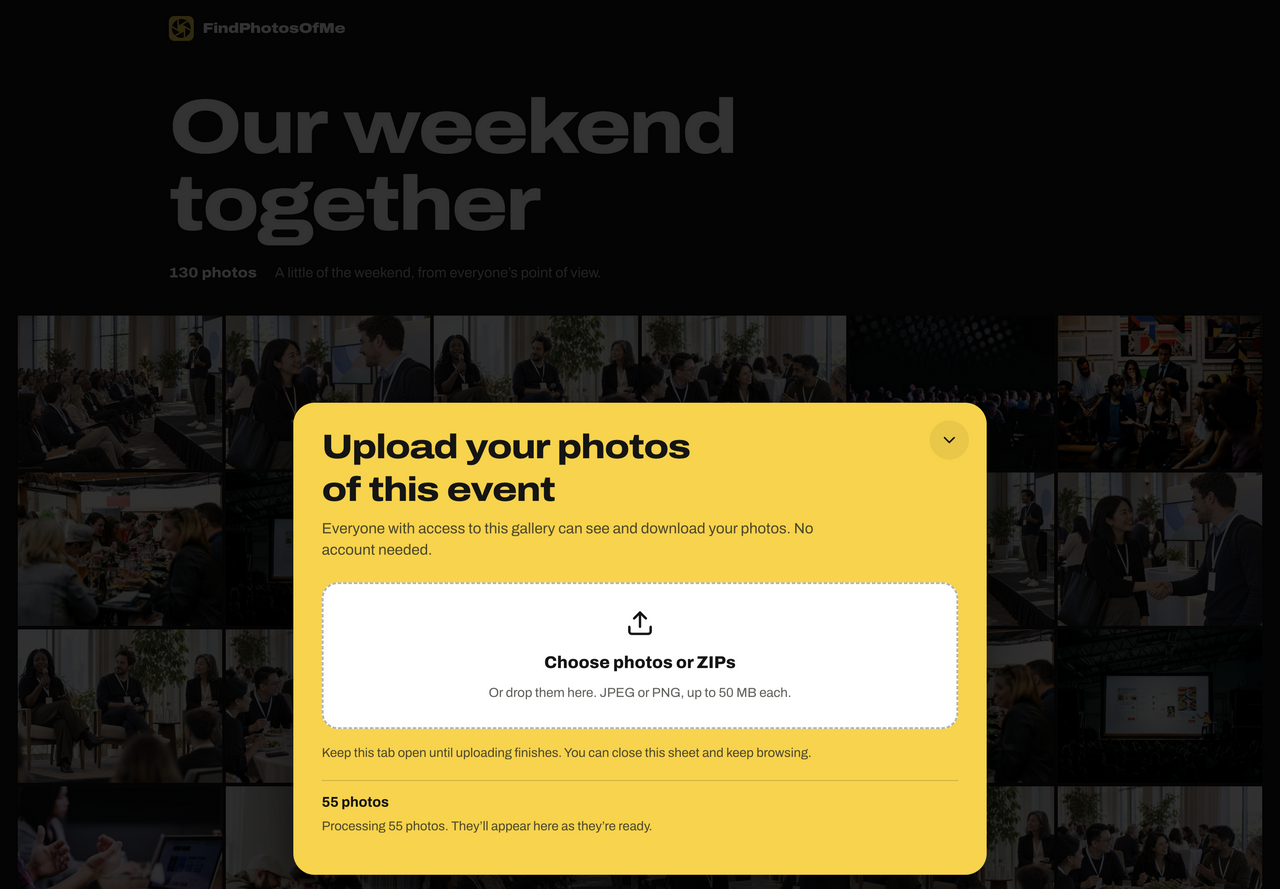
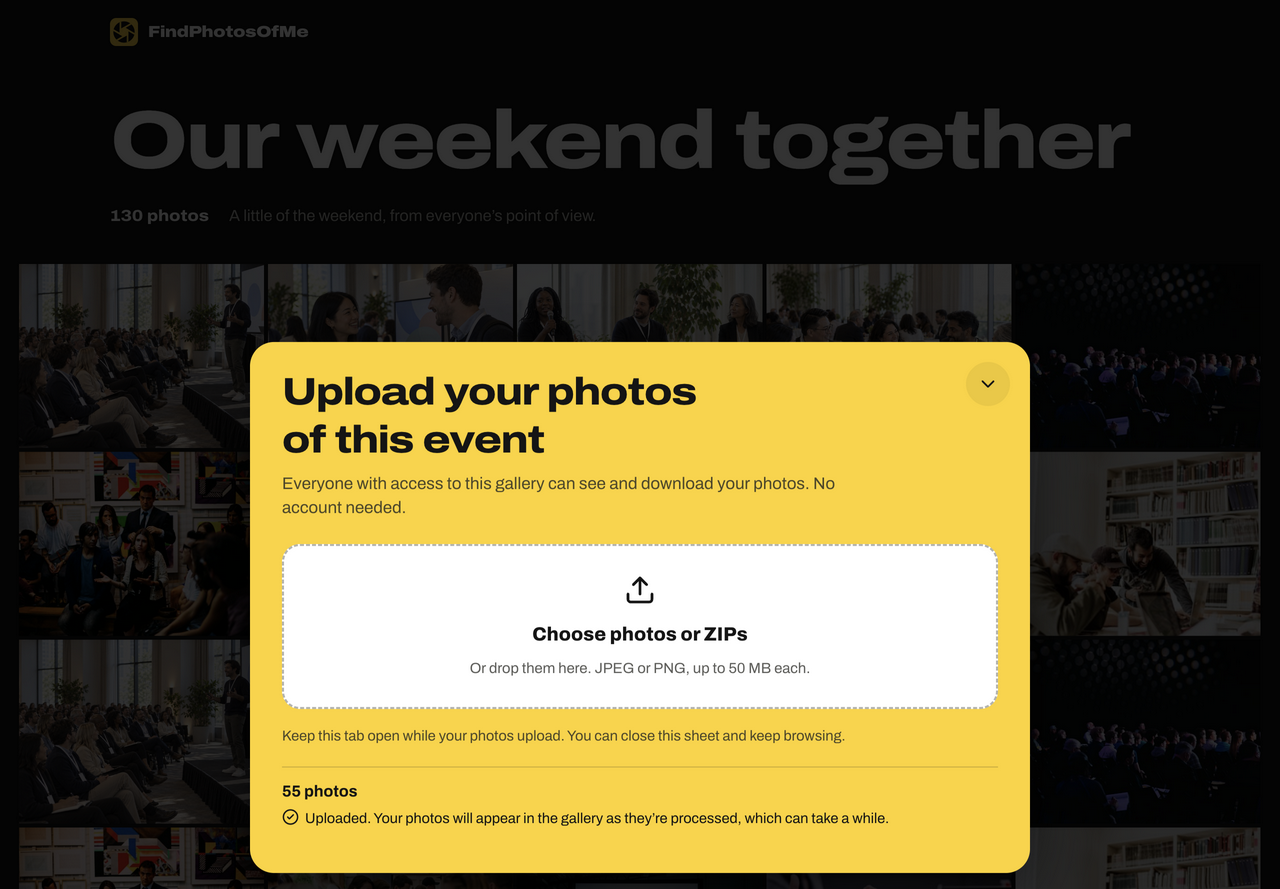
Finish guest uploads when photos reach storage
Guests on crowdsourced galleries saw the upload pill spin and the sheet say "Processing" until face indexing finished, so uploads felt slow even after every file had arrived. A guest's upload now ends when its batches are confirmed in storage: the row shows a check with "Uploaded" and explains that photos appear in the gallery as they are processed, which can take a while. The pill spins only while this tab still has files to send.

usePhotoUpload now exposes that "still sending" state, and the leave-page warning reads the same value, so the pill and the warning always agree about when the tab must stay open. The pill drops its aria-label so screen readers hear the hidden "uploading" text. Processed uploads with a few unreadable photos keep the done tone and mention the missing count, matching the owner dashboard's Ready state; only uploads with nothing saved turn red. Review screenshots were recaptured against the fixture app, which never processes, to show the new state.

diff --git a/apps/web/app/components/gallery/GalleryUpload.vue b/apps/web/app/components/gallery/GalleryUpload.vue
@@ -1,5 +1,5 @@
 <script setup lang="ts">
-import { Upload, ChevronDown, LoaderCircle } from "@lucide/vue";
+import { Upload, ChevronDown, CircleCheck, LoaderCircle } from "@lucide/vue";
 import { api } from "@FindPhotosOfMe/backend/convex/_generated/api";
 import type { Doc, Id } from "@FindPhotosOfMe/backend/convex/_generated/dataModel";
 import { useConvexClient } from "convex-vue";
@@ -11,7 +11,7 @@ const over = ref(false);
 const picker = useTemplateRef("picker");
 const contributorKey = ref("");
 const access = computed(() => ({ shareToken: props.shareToken, contributorKey: contributorKey.value }));
-const { sending, upload } = usePhotoUpload(() => props.galleryId, access);
+const { sending, uploading, upload } = usePhotoUpload(() => props.galleryId, access);
 const uploads = ref<Doc<"uploads">[]>([]);
 const failure = ref("");
 const convex = useConvexClient();
@@ -32,29 +32,33 @@ function add(files: FileList | null | undefined) {
   if (files?.length && contributorKey.value) upload(Array.from(files));
   if (picker.value) picker.value.value = "";
 }
-const rows = computed(() => [
-  ...sending.value.map((entry) => ({
-    key: entry.key, name: entry.name,
-    text: entry.error || (entry.photos ? `${entry.sent} of ${entry.photos} photos uploaded` : "Opening your photos…"),
-    error: Boolean(entry.error),
+const photos = (n: number) => `${count.format(n)} ${n === 1 ? "photo" : "photos"}`;
+type Row = { key: string; name: string; text: string; tone?: "done" | "error" };
+const rows = computed<Row[]>(() => [
+  ...sending.value.map((entry): Row => ({
+    key: entry.key, name: entry.name, tone: entry.error ? "error" : undefined,
+    text: entry.error || (entry.photos ? `${count.format(entry.sent)} of ${photos(entry.photos)} uploaded` : "Opening your photos…"),
   })),
-  ...uploads.value.filter((item) => !sending.value.some((entry) => entry.uploadId === item._id)).map((item) => ({
-    key: item._id, name: item.name, error: item.processed === item.photos && item.saved < item.photos,
-    text: item.sent < item.photos ? `${item.sent} of ${item.photos} uploaded. Choose the same files to continue.`
-      : item.processed < item.photos ? `Processing ${item.photos} photos. They’ll appear here as they’re ready.`
-        : `${item.saved} photos added${item.processed > item.saved ? `; ${item.processed - item.saved} couldn’t be processed` : ""}.`,
-  })),
+  ...uploads.value.filter((item) => !sending.value.some((entry) => entry.uploadId === item._id)).map(uploadRow),
 ]);
-const busy = computed(() => sending.value.some((entry) => !entry.error) || uploads.value.some((item) => item.sent === item.photos && item.processed < item.photos));
+// A guest is done once their photos reach storage. Processing runs on our side and can take a while, so it isn't
+// shown as something to wait for.
+function uploadRow(item: Doc<"uploads">): Row {
+  const row = { key: item._id, name: item.name };
+  if (item.sent < item.photos) return { ...row, text: `${count.format(item.sent)} of ${photos(item.photos)} uploaded. Choose the same files to continue.` };
+  if (item.processed < item.photos) return { ...row, tone: "done", text: "Uploaded. Your photos will appear in the gallery as they’re processed, which can take a while." };
+  const missing = item.processed - item.saved;
+  return { ...row, tone: item.saved ? "done" : "error", text: `${photos(item.saved)} added to the gallery${missing ? `. ${count.format(missing)} couldn’t be processed` : ""}.` };
+}
 </script>
 
 <template>
   <Drawer v-model:open="open">
     <DrawerTrigger as-child>
-      <button class="gallery-action" type="button" aria-label="Upload your photos">
-        <LoaderCircle v-if="busy" class="uploading-icon" aria-hidden="true" /><Upload v-else aria-hidden="true" />
+      <button class="gallery-action" type="button">
+        <LoaderCircle v-if="uploading" class="uploading-icon" aria-hidden="true" /><Upload v-else aria-hidden="true" />
         <span>Upload your photos</span>
-        <span v-if="busy" class="sr-only">Photos uploading or processing</span>
+        <span v-if="uploading" class="sr-only">, uploading</span>
       </button>
     </DrawerTrigger>
     <DrawerContent class="upload-sheet">
@@ -68,10 +72,13 @@ const busy = computed(() => sending.value.some((entry) => !entry.error) || uploa
           <Upload aria-hidden="true" /><b>Choose photos or ZIPs</b><span>Or drop them here. JPEG or PNG, up to 50 MB each.</span>
         </button>
         <input ref="picker" type="file" accept=".zip,application/zip,image/jpeg,image/png" multiple hidden @change="add(($event.target as HTMLInputElement).files)">
-        <p class="hint">Keep this tab open until uploading finishes. You can close this sheet and keep browsing.</p>
+        <p class="hint">Keep this tab open while your photos upload. You can close this sheet and keep browsing.</p>
         <p v-if="failure" class="error" role="alert">{{ failure }}</p>
         <ul v-if="rows.length" class="progress" aria-live="polite">
-          <li v-for="row in rows" :key="row.key"><b>{{ row.name }}</b><span :class="{ error: row.error }">{{ row.text }}</span></li>
+          <li v-for="row in rows" :key="row.key">
+            <b>{{ row.name }}</b>
+            <span :class="row.tone"><CircleCheck v-if="row.tone === 'done'" aria-hidden="true" />{{ row.text }}</span>
+          </li>
         </ul>
       </section>
     </DrawerContent>
@@ -97,6 +104,8 @@ const busy = computed(() => sending.value.some((entry) => !entry.error) || uploa
 .progress { margin-top: 20px; }
 .progress li { display: grid; gap: 4px; padding-block: 12px; border-top: 1px solid rgb(21 21 21 / .2); overflow-wrap: anywhere; }
 .progress span { color: #4f4826; font-size: .9rem; }
+.progress .done { display: flex; align-items: flex-start; gap: 6px; color: var(--brand-foreground); }
+.progress .done svg { flex: none; width: 17px; height: 17px; margin-top: 1px; }
 .error, .progress .error { color: #8a2218; }
 @media (max-width: 640px) {
   .upload-sheet-close { top: 28px; right: 16px; }

diff --git a/apps/web/app/composables/usePhotoUpload.ts b/apps/web/app/composables/usePhotoUpload.ts
@@ -19,9 +19,11 @@ const PARALLEL = 4;
 export function usePhotoUpload(galleryId: MaybeRefOrGetter<Id<"collections">>, guest?: MaybeRefOrGetter<FunctionArgs<typeof api.uploads.start>["access"]>) {
   const convex = useConvexClient();
   const sending = ref<Sending[]>([]);
+  /** Whether this tab still has photos to send. Processing needs nothing from the tab. */
+  const uploading = computed(() => sending.value.some((entry) => !entry.error));
   // Closing the tab stops the upload, so the browser asks first.
   useEventListener(defaultWindow, "beforeunload", (event) => {
-    if (sending.value.some((entry) => !entry.error)) event.preventDefault();
+    if (uploading.value) event.preventDefault();
   });
 
   async function upload(files: File[]) {
@@ -74,7 +76,7 @@ export function usePhotoUpload(galleryId: MaybeRefOrGetter<Id<"collections">>, g
     }
   }
 
-  return { sending, upload };
+  return { sending, uploading, upload };
 }
 
 /** Runs a few at a time; after one fails, the others finish what they're on and take nothing new. */

diff --git a/docs/review/crowdsource/README.md b/docs/review/crowdsource/README.md
@@ -19,15 +19,17 @@ The guest gallery now has two compact floating pills together at the bottom: **U
 
 ![Compact desktop actions](guest-actions-desktop.png)
 
-![Upload sheet with preserved processing progress](guest-upload-sheet-desktop.png)
+![Upload sheet after the photos reached storage, with processing still pending](guest-upload-sheet-desktop.png)
 
 ![Find me opens the existing selfie explanation](guest-find-me-desktop.png)
 
 Mobile views at 390 × 844: [gallery actions](guest-actions-mobile.png), [upload sheet](guest-upload-sheet-mobile.png), [selfie sheet](guest-find-me-mobile.png). Both pills also fit a 320-pixel-wide viewport without clipping.
 
-Verified 55 selected photos reached the fixture storage in batches of 50 and 5. Processing status survived closing, opening the search sheet, and reopening uploads. Close buttons and Escape return focus to the triggering pill; backdrop dismissal works. Disabling contributions while its sheet is open restores the remaining **Find me** action. These captures use the same pending-processing fixture described below.
+On 8 October 2026 the guest sheet stopped treating processing as part of the upload. The pill spins only while files are going to storage. As soon as the last batch is confirmed, the row reads **Uploaded** with a note that processing can take a while, although the fixture still reports no processed photos. The two upload sheet captures above show that state.
 
-The final browser pass repeated the 55-photo upload while signed out through the updated batch reservation and completion endpoints. All 55 unique objects reached storage, both batches were confirmed after the server checked stored sizes, and the page showed processing with no upload errors. [Recorded verification values](upload-verification.json). The collaborative browser disconnected after opening the search sheet during this final pass, so the existing screenshots remain the visual evidence and the earlier pass covers reopening behavior.
+Verified 55 selected photos reached the fixture storage in batches of 50 and 5. Upload status survived closing, opening the search sheet, and reopening uploads. Close buttons and Escape return focus to the triggering pill; backdrop dismissal works. Disabling contributions while its sheet is open restores the remaining **Find me** action. These captures use the same pending-processing fixture described below.
+
+The final browser pass repeated the 55-photo upload while signed out through the updated batch reservation and completion endpoints. All 55 unique objects reached storage, both batches were confirmed after the server checked stored sizes, and the page showed processing with no upload errors. [Recorded verification values](upload-verification.json). The collaborative browser disconnected after opening the search sheet during this final pass, so the 6 October screenshots remained the visual evidence until the 8 October recapture, and the earlier pass covers reopening behavior.
 
 ## Earlier recordings
 

diff --git a/docs/gallery-publication.md b/docs/gallery-publication.md
@@ -4,7 +4,7 @@ New galleries need only a name and start private. Publishing makes the gallery a
 
 Owners can enable **Let guests upload photos** in Gallery page settings. Anyone with access can then upload multiple JPEG/PNG photos or ZIPs without an account, on the gallery page or through its Telegram bot. All valid photos submitted while crowdsourcing is enabled are kept, including photos without faces. Face search indexes only detected faces. The gallery shows all photos without owner approval after processing. Turning contributions off prevents new batches; already accepted batches finish under the policy they were submitted with, and browsing stays enabled unless the owner changes it separately.
 
-The gallery has two compact floating actions at the bottom: **Upload your photos** and **Find me**. Each opens its own sheet. Upload and search progress survive closing the sheet so guests can keep browsing. Empty crowdsourced galleries show the upload action; galleries with contributions disabled show only search.
+The gallery has two compact floating actions at the bottom: **Upload your photos** and **Find me**. Each opens its own sheet. Upload and search progress survive closing the sheet so guests can keep browsing. A guest's upload is finished once its photos reach storage: the sheet then marks it **Uploaded** and explains that the photos join the gallery after processing, which can take a while. The upload action shows activity only while files are being sent, never while they wait for processing. Empty crowdsourced galleries show the upload action; galleries with contributions disabled show only search.
 
 Guest uploads use the existing owner balance and processing queue. Starting an upload checks that the available balance can cover it. Each batch then reserves credit before receiving storage URLs for its exact filenames and byte sizes. The URLs last 15 minutes; retries reuse the same reservation and deadline. Completing an upload checks the stored files on the server, then atomically converts the reservation into a charge and queues processing. Guests cannot confirm an upload directly in Convex. The dashboard shows **Available balance**, excluding pending reservations.
 
